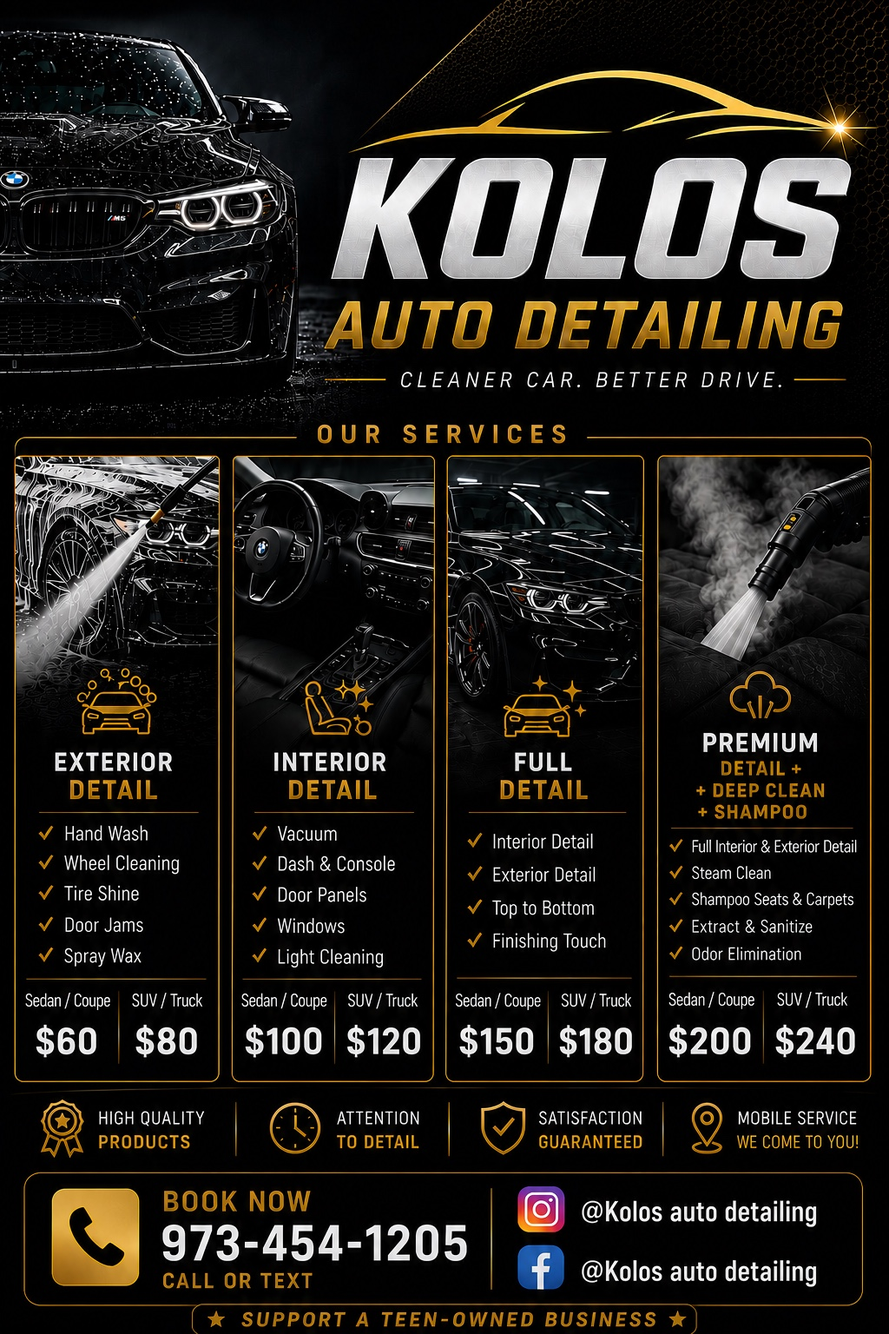
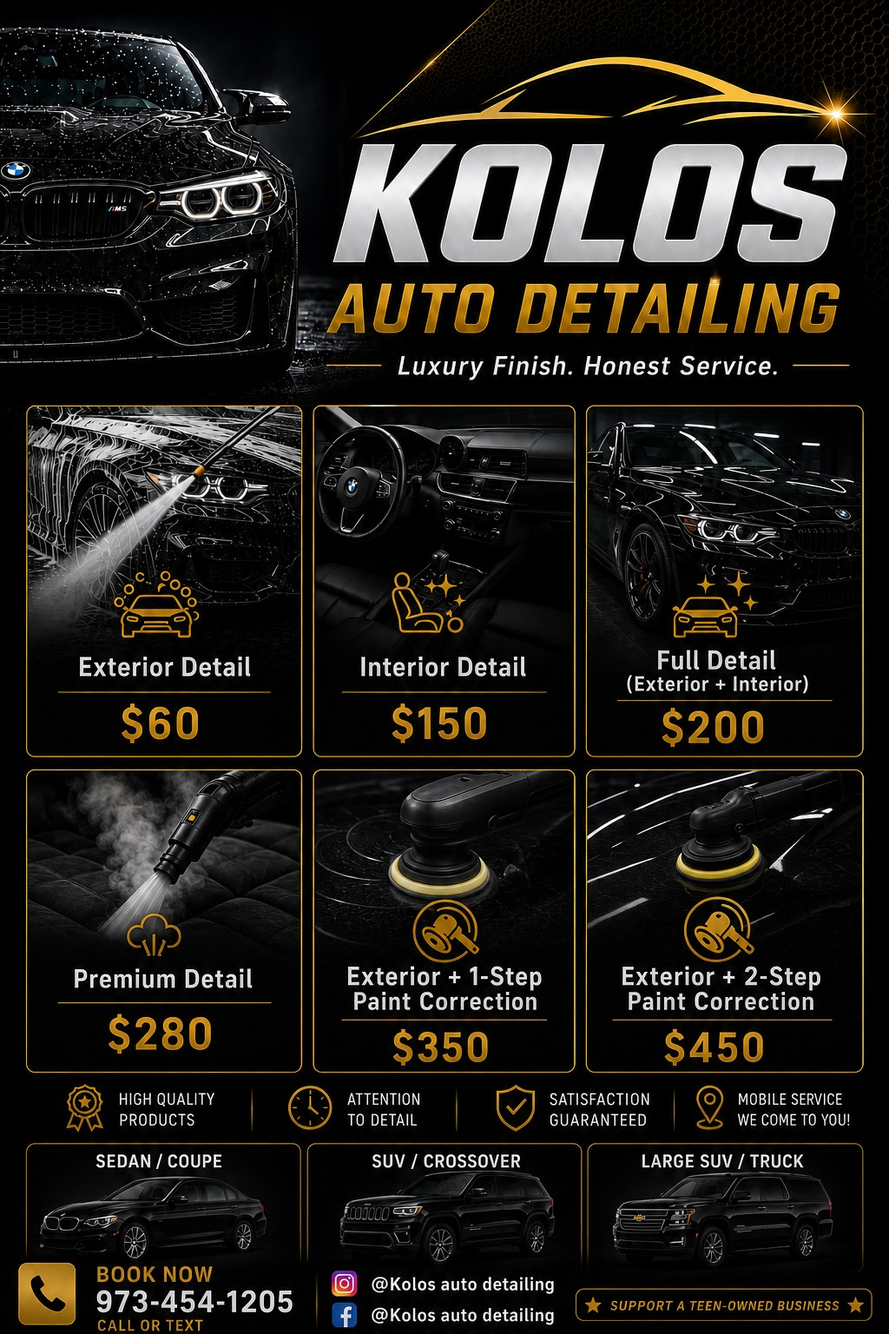
Update website

diff --git a/style.css b/style.css
@@ -1,7 +1,7 @@
 :root{--bg:#080808;--panel:#111;--panel2:#161616;--gold:#d4af37;--gold2:#f0d477;--text:#f4f1e8;--muted:#aaa59a;--line:rgba(212,175,55,.24);--max:1180px}
-*{box-sizing:border-box}html{scroll-behavior:smooth}body{margin:0;background:var(--bg);color:var(--text);font-family:Inter,ui-sans-serif,system-ui,-apple-system,Segoe UI,sans-serif;line-height:1.6}a{color:inherit;text-decoration:none}button,input,select,textarea{font:inherit}.wrap{width:min(var(--max),calc(100% - 40px));margin:auto}.topbar{height:76px;position:fixed;z-index:20;top:0;left:0;right:0;display:flex;align-items:center;justify-content:space-between;padding:0 max(22px,calc((100vw - var(--max))/2));background:rgba(8,8,8,.82);backdrop-filter:blur(14px);border-bottom:1px solid rgba(255,255,255,.06)}.brand{font-weight:900;letter-spacing:.12em}.brand span{font-weight:500;color:var(--gold);font-size:.72em}.topbar nav{display:flex;align-items:center;gap:24px;font-size:.91rem}.topbar nav a{color:#d6d2ca}.nav-cta{border:1px solid var(--gold);padding:9px 17px;color:var(--gold)!important}.hero{min-height:760px;height:92vh;display:grid;place-items:center;position:relative;background:url('assets/gallery-clean.jpg') center/cover no-repeat}.hero-overlay{position:absolute;inset:0;background:linear-gradient(90deg,rgba(0,0,0,.9) 0%,rgba(0,0,0,.62) 52%,rgba(0,0,0,.2)),linear-gradient(0deg,#080808 0%,transparent 35%)}.hero-content{position:relative;width:min(var(--max),calc(100% - 40px));padding-top:60px}.eyebrow{color:var(--gold);font-size:.76rem;font-weight:800;text-transform:uppercase;letter-spacing:.18em}.hero h1,.section h2{font-family:Georgia,serif;line-height:1.03;margin:.25em 0}.hero h1{font-size:clamp(3.4rem,8vw,7.5rem);max-width:900px}.hero h1 em{color:var(--gold2);font-weight:400}.hero-copy{max-width:630px;color:#d4d0c7;font-size:1.08rem}.actions{display:flex;gap:12px;flex-wrap:wrap;margin-top:28px}.btn{display:inline-flex;justify-content:center;align-items:center;min-height:50px;padding:0 22px;border:1px solid transparent;font-weight:800;letter-spacing:.02em;cursor:pointer}.primary{background:var(--gold);color:#090909}.primary:hover{background:var(--gold2)}.ghost{border-color:rgba(255,255,255,.25);background:rgba(0,0,0,.25)}.section{padding:110px 0}.section-head{max-width:720px;margin-bottom:42px}.section h2{font-size:clamp(2.5rem,5vw,4.5rem)}.section-head>p:not(.eyebrow){color:var(--muted)}.package-grid{display:grid;grid-template-columns:repeat(4,1fr);gap:16px}.card{position:relative;background:linear-gradient(145deg,var(--panel2),#0d0d0d);border:1px solid rgba(255,255,255,.08);padding:30px;min-height:360px;display:flex;flex-direction:column}.card:hover{transform:translateY(-4px);border-color:var(--line)}.card,.btn,.text-link{transition:.25s}.card .label{color:var(--gold);text-transform:uppercase;font-size:.77rem;letter-spacing:.14em;font-weight:800}.card h3{font-family:Georgia,serif;font-size:3.2rem;margin:0 0 20px}.card ul{list-style:none;padding:0;margin:0 0 26px;color:#c6c1b7}.card li{padding:9px 0;border-bottom:1px solid rgba(255,255,255,.06)}.card li:before{content:'✓';color:var(--gold);margin-right:9px}.text-link{margin-top:auto;color:var(--gold);font-weight:800}.featured{border-color:var(--gold);box-shadow:0 16px 55px rgba(0,0,0,.35)}.popular{position:absolute;right:18px;top:18px;background:var(--gold);color:#090909;font-size:.66rem;font-weight:900;padding:5px 8px;text-transform:uppercase}.correction{margin-top:22px;border:1px solid var(--line);background:#0d0d0d}.correction summary{cursor:pointer;padding:20px 24px;color:var(--gold);font-weight:800}.correction-grid{display:grid;grid-template-columns:repeat(2,1fr);padding:0 24px 22px;gap:10px}.correction-grid p{display:flex;justify-content:space-between;margin:0;background:#141414;padding:16px}.correction-grid span{color:var(--gold)}.results-section{background:#0d0d0d;border-block:1px solid rgba(255,255,255,.06)}.result-block{display:grid;grid-template-columns:280px 1fr;gap:30px;padding:28px 0 52px;border-top:1px solid var(--line)}.result-copy span{font-family:Georgia,serif;color:var(--gold);font-size:3rem}.result-copy h3{font-size:2rem;margin:0}.result-copy p{color:var(--muted)}.photo-pair{display:grid;grid-template-columns:1fr 1fr;gap:14px}.photo-slot{min-height:330px;border:1px dashed rgba(212,175,55,.44);background:radial-gradient(circle at 50% 40%,#252525,#111);display:flex;flex-direction:column;justify-content:space-between;padding:20px;color:#8d887d}.photo-slot small{color:var(--gold);font-weight:900;letter-spacing:.16em}.split{display:grid;grid-template-columns:.9fr 1.1fr;gap:70px;align-items:start}.contact-stack{display:flex;flex-direction:column;gap:11px;margin-top:30px}.contact-stack a{font-size:1.13rem;color:var(--gold)}.contact-stack span{color:var(--muted)}.form-card{background:#111;border:1px solid var(--line);padding:30px}.form-card h3{font-family:Georgia,serif;font-size:2rem;margin-top:0}label,legend{display:block;color:#d7d1c5;font-size:.84rem;font-weight:700}input,select,textarea{width:100%;margin:7px 0 18px;background:#090909;border:1px solid #34322d;color:#fff;padding:13px 14px;outline:none}input:focus,select:focus,textarea:focus{border-color:var(--gold)}.field-row{display:grid;grid-template-columns:1fr 1fr;gap:14px}.check{display:flex;align-items:flex-start;gap:10px;font-weight:500;margin-bottom:20px}.check input{width:auto;margin:4px 0}.full{width:100%}.form-note{font-size:.76rem;color:#8f8a80;margin:12px 0 0}.hidden{position:absolute;left:-9999px}.reviews-section{background:linear-gradient(180deg,#0a0a0a,#111)}.empty-review{border-left:2px solid var(--gold);padding:5px 0 5px 20px;margin-top:26px}.empty-review p{color:var(--muted)}.rating{border:0;padding:0;margin:0 0 18px}.rating label{display:inline-flex;margin-right:11px;cursor:pointer}.rating input{width:auto;margin:0 5px 0 0}.rating span{color:var(--gold);letter-spacing:1px}.rating i{color:#3a3833;font-style:normal}footer{border-top:1px solid var(--line);padding:34px 0;background:#070707}.footer-inner{display:flex;justify-content:space-between;align-items:center}.footer-inner p{color:var(--muted);margin:.25rem 0}.socials{display:flex;gap:18px}.socials a{color:var(--gold)}.reveal{opacity:0;transform:translateY(18px);transition:.65s ease}.reveal.visible{opacity:1;transform:none}
-@media(max-width:900px){.topbar nav a:not(.nav-cta){display:none}.package-grid{grid-template-columns:repeat(2,1fr)}.split{grid-template-columns:1fr;gap:25px}.result-block{grid-template-columns:1fr}.hero{min-height:680px}.section{padding:82px 0}}
-@media(max-width:580px){.wrap,.hero-content{width:min(100% - 24px,var(--max))}.topbar{height:66px;padding:0 12px}.brand{font-size:.85rem}.hero{height:auto;min-height:720px}.hero h1{font-size:3.25rem}.actions .btn{width:100%}.package-grid,.correction-grid,.photo-pair,.field-row{grid-template-columns:1fr}.card{min-height:320px}.section{padding:70px 0}.section h2{font-size:2.65rem}.photo-slot{min-height:240px}.form-card{padding:20px}.footer-inner{align-items:flex-start;gap:22px;flex-direction:column}.socials{flex-wrap:wrap}}
+*{box-sizing:border-box}html{scroll-behavior:smooth}body{margin:0;background:var(--bg);color:var(--text);font-family:Inter,ui-sans-serif,system-ui,-apple-system,Segoe UI,sans-serif;line-height:1.6}a{color:inherit;text-decoration:none}.wrap{width:min(var(--max),calc(100% - 40px));margin:auto}.topbar{height:76px;position:fixed;z-index:20;top:0;left:0;right:0;display:flex;align-items:center;justify-content:space-between;padding:0 max(22px,calc((100vw - var(--max))/2));background:rgba(8,8,8,.82);backdrop-filter:blur(14px);border-bottom:1px solid rgba(255,255,255,.06)}.brand{font-weight:900;letter-spacing:.12em;text-transform:uppercase}.brand span{font-weight:500;color:var(--gold);font-size:.72em}.topbar nav{display:flex;align-items:center;gap:24px;font-size:.91rem}.topbar nav a{color:#d6d2ca}.nav-cta{border:1px solid var(--gold);padding:9px 17px;color:var(--gold)!important}.hero{min-height:760px;height:92vh;display:grid;place-items:center;position:relative;background:url('assets/gallery-clean.jpg') center/cover no-repeat}.hero-overlay{position:absolute;inset:0;background:linear-gradient(90deg,rgba(0,0,0,.9) 0%,rgba(0,0,0,.62) 52%,rgba(0,0,0,.2)),linear-gradient(0deg,#080808 0%,transparent 35%)}.hero-content{position:relative;width:min(var(--max),calc(100% - 40px));padding-top:60px}.eyebrow{color:var(--gold);font-size:.76rem;font-weight:800;text-transform:uppercase;letter-spacing:.18em}.hero h1,.section h2{font-family:Georgia,serif;line-height:1.03;margin:.25em 0}.hero h1{font-size:clamp(3.4rem,8vw,7.5rem);max-width:900px}.hero h1 em{color:var(--gold2);font-weight:400}.hero-copy{max-width:630px;color:#d4d0c7;font-size:1.08rem}.actions{display:flex;gap:12px;flex-wrap:wrap;margin-top:28px}.btn{display:inline-flex;justify-content:center;align-items:center;min-height:50px;padding:0 22px;border:1px solid transparent;font-weight:800;letter-spacing:.02em;cursor:pointer}.primary{background:var(--gold);color:#090909}.primary:hover{background:var(--gold2)}.ghost{border-color:rgba(255,255,255,.25);background:rgba(0,0,0,.25)}.section{padding:110px 0}.section-head{max-width:720px;margin-bottom:42px}.section h2{font-size:clamp(2.5rem,5vw,4.5rem)}.section-head>p:not(.eyebrow){color:var(--muted)}.package-grid{display:grid;grid-template-columns:repeat(4,1fr);gap:16px}.card{position:relative;background:linear-gradient(145deg,var(--panel2),#0d0d0d);border:1px solid rgba(255,255,255,.08);padding:30px;min-height:360px;display:flex;flex-direction:column}.card:hover{transform:translateY(-4px);border-color:var(--line)}.card,.btn,.text-link{transition:.25s}.card .label{color:var(--gold);text-transform:uppercase;font-size:.77rem;letter-spacing:.14em;font-weight:800}.card h3{font-family:Georgia,serif;font-size:3.2rem;margin:0 0 20px}.card ul{list-style:none;padding:0;margin:0 0 26px;color:#c6c1b7}.card li{padding:9px 0;border-bottom:1px solid rgba(255,255,255,.06)}.card li:before{content:'✓';color:var(--gold);margin-right:9px}.text-link{margin-top:auto;color:var(--gold);font-weight:800}.featured{border-color:var(--gold);box-shadow:0 16px 55px rgba(0,0,0,.35)}.popular{position:absolute;right:18px;top:18px;background:var(--gold);color:#090909;font-size:.66rem;font-weight:900;padding:5px 8px;text-transform:uppercase}.correction{margin-top:22px;border:1px solid var(--line);background:#0d0d0d}.correction summary{cursor:pointer;padding:20px 24px;color:var(--gold);font-weight:800}.correction-grid{display:grid;grid-template-columns:repeat(2,1fr);padding:0 24px 22px;gap:10px}.correction-grid p{display:flex;justify-content:space-between;margin:0;background:#141414;padding:16px}.correction-grid span{color:var(--gold)}.results-section{background:#0d0d0d;border-block:1px solid rgba(255,255,255,.06)}.result-block{display:grid;grid-template-columns:280px 1fr;gap:30px;padding:28px 0 52px;border-top:1px solid var(--line)}.result-copy span{font-family:Georgia,serif;color:var(--gold);font-size:3rem}.result-copy h3{font-size:2rem;margin:0}.result-copy p{color:var(--muted)}.photo-pair{display:grid;grid-template-columns:1fr 1fr;gap:14px}.photo-slot{min-height:330px;border:1px dashed rgba(212,175,55,.44);background:radial-gradient(circle at 50% 40%,#252525,#111);display:flex;flex-direction:column;justify-content:space-between;padding:20px;color:#8d887d}.photo-slot small{color:var(--gold);font-weight:900;letter-spacing:.16em}.contact-stack{display:flex;flex-direction:column;gap:11px;margin-top:30px}.contact-stack a{font-size:1.13rem;color:var(--gold)}.contact-stack span{color:var(--muted)}.full{width:100%}.reviews-section{background:linear-gradient(180deg,#0a0a0a,#111)}.empty-review{border-left:2px solid var(--gold);padding:5px 0 5px 20px;margin-top:26px}.empty-review p{color:var(--muted)}footer{border-top:1px solid var(--line);padding:34px 0;background:#070707}.footer-inner{display:flex;justify-content:space-between;align-items:center;gap:28px}.footer-inner p{color:var(--muted);margin:.25rem 0}.socials{display:flex;align-items:center;gap:14px}.socials a{width:38px;height:38px;display:grid;place-items:center;color:var(--gold);border:1px solid var(--line);transition:.25s}.socials a:hover{color:var(--gold2);border-color:var(--gold);transform:translateY(-2px)}.socials svg{width:21px;height:21px;fill:none;stroke:currentColor;stroke-width:1.8;stroke-linecap:round;stroke-linejoin:round}.socials .social-dot{fill:currentColor;stroke:none}.reveal{opacity:0;transform:translateY(18px);transition:.65s ease}.reveal.visible{opacity:1;transform:none}
+@media(max-width:900px){.topbar nav a:not(.nav-cta){display:none}.package-grid{grid-template-columns:repeat(2,1fr)}.result-block{grid-template-columns:1fr}.hero{min-height:680px}.section{padding:82px 0}}
+@media(max-width:580px){.wrap,.hero-content{width:min(100% - 24px,var(--max))}.topbar{height:66px;padding:0 12px}.brand{font-size:.85rem}.hero{height:auto;min-height:720px}.hero h1{font-size:3.25rem}.actions .btn{width:100%}.package-grid,.correction-grid,.photo-pair{grid-template-columns:1fr}.card{min-height:320px}.section{padding:70px 0}.section h2{font-size:2.65rem}.photo-slot{min-height:240px}.footer-inner{align-items:flex-start;gap:22px;flex-direction:column}.socials{flex-wrap:wrap}}
 .subsection-head{margin:70px 0 24px}.subsection-head h3,.flyer-card h3{font-family:Georgia,serif;font-size:clamp(2rem,4vw,3.4rem);margin:.15em 0}.correction-cards .card h3 small{font-family:Inter,ui-sans-serif,system-ui;font-size:.28em;text-transform:uppercase;letter-spacing:.12em;color:var(--muted)}.flyer-card{margin-top:28px;padding:28px;border:1px solid var(--line);background:linear-gradient(145deg,#141414,#0b0b0b);display:grid;grid-template-columns:1fr minmax(260px,420px);gap:32px;align-items:center}.flyer-card p:not(.eyebrow){color:var(--muted);max-width:560px}.flyer-card a{display:block;border:1px solid rgba(255,255,255,.09);overflow:hidden}.flyer-card img{display:block;width:100%;height:auto}.result-photo{position:relative;min-height:330px;margin:0;overflow:hidden;border:1px solid rgba(212,175,55,.34);background:#111}.result-photo img{width:100%;height:100%;min-height:330px;object-fit:cover;display:block}.result-photo figcaption{position:absolute;left:0;right:0;bottom:0;display:flex;justify-content:space-between;align-items:center;padding:15px 17px;background:linear-gradient(transparent,rgba(0,0,0,.9));padding-top:48px}.result-photo small{color:var(--gold);font-weight:900;letter-spacing:.16em}.result-photo span{font-size:.72rem;color:#d0cbc2}.photo-slot{display:none}
 @media(max-width:900px){.flyer-card{grid-template-columns:1fr}.correction-cards{grid-template-columns:repeat(2,1fr)}}
 @media(max-width:580px){.correction-cards{grid-template-columns:1fr}.flyer-card{padding:18px}.result-photo,.result-photo img{min-height:240px}}

diff --git a/index.html b/index.html
@@ -44,11 +44,12 @@
       "@type": "OfferCatalog",
       "name": "Mobile auto detailing services",
       "itemListElement": [
-        {"@type": "Offer", "itemOffered": {"@type": "Service", "name": "Interior car detailing"}},
-        {"@type": "Offer", "itemOffered": {"@type": "Service", "name": "Exterior car detailing"}},
-        {"@type": "Offer", "itemOffered": {"@type": "Service", "name": "Full car detailing"}},
-        {"@type": "Offer", "itemOffered": {"@type": "Service", "name": "Paint correction"}},
-        {"@type": "Offer", "itemOffered": {"@type": "Service", "name": "Mobile car wash"}}
+        {"@type": "Offer", "price": "60", "priceCurrency": "USD", "itemOffered": {"@type": "Service", "name": "Exterior Detail"}},
+        {"@type": "Offer", "price": "150", "priceCurrency": "USD", "itemOffered": {"@type": "Service", "name": "Interior Detail"}},
+        {"@type": "Offer", "price": "200", "priceCurrency": "USD", "itemOffered": {"@type": "Service", "name": "Full Detail (Exterior + Interior)"}},
+        {"@type": "Offer", "price": "280", "priceCurrency": "USD", "itemOffered": {"@type": "Service", "name": "Premium Detail"}},
+        {"@type": "Offer", "price": "350", "priceCurrency": "USD", "itemOffered": {"@type": "Service", "name": "Exterior + 1-Step Paint Correction"}},
+        {"@type": "Offer", "price": "450", "priceCurrency": "USD", "itemOffered": {"@type": "Service", "name": "Exterior + 2-Step Paint Correction"}}
       ]
     }
   }
@@ -56,7 +57,7 @@
 </head>
 <body>
 <header class="topbar">
-  <a class="brand" href="#top" aria-label="Kolos Auto Detailing home">KOLOS <span>AUTO DETAILING</span></a>
+  <a class="brand" href="#top" aria-label="Kolos Auto Detailing home">Kolos <span>Auto Detailing</span></a>
   <nav aria-label="Primary navigation">
     <a href="#packages">Packages</a>
     <a href="#results">Before & After</a>
@@ -72,7 +73,7 @@
     <div class="hero-content reveal">
       <p class="eyebrow">Mobile service • Wayne, New Jersey</p>
       <h1>A cleaner car.<br><em>A simpler booking.</em></h1>
-      <p class="hero-copy">Premium mobile detailing brought to your driveway. You provide access to water and an electrical outlet — we handle the rest.</p>
+      <p class="hero-copy">Premium mobile detailing brought directly to your driveway. We bring our own water and professional equipment — we only require access to a standard electrical outlet.</p>
       <div class="actions">
         <a class="btn primary" href="#booking">Book an Appointment</a>
         <a class="btn ghost" href="tel:+19734541205">Call 973-454-1205</a>
@@ -90,25 +91,25 @@
 
     <div class="package-grid">
       <article class="card reveal">
-        <p class="label">Exterior</p><h3>$60</h3>
+        <p class="label">Exterior Detail</p><h3>$60</h3>
         <ul><li>Hand wash</li><li>Wheels and tires</li><li>Exterior finish</li></ul>
-        <a href="#booking" class="text-link" data-package="Exterior">Select package →</a>
+        <a href="#booking" class="text-link" data-package="Exterior Detail">Select package →</a>
       </article>
       <article class="card reveal">
-        <p class="label">Interior</p><h3>$150</h3>
+        <p class="label">Interior Detail</p><h3>$150</h3>
         <ul><li>Strong interior cleaning</li><li>Vacuum and wipe-down</li><li>Interior finishing</li></ul>
-        <a href="#booking" class="text-link" data-package="Interior">Select package →</a>
+        <a href="#booking" class="text-link" data-package="Interior Detail">Select package →</a>
       </article>
       <article class="card featured reveal">
         <span class="popular">Most Popular</span>
-        <p class="label">Full Detail</p><h3>$200</h3>
+        <p class="label">Full Detail (Exterior + Interior)</p><h3>$200</h3>
         <ul><li>Exterior detail</li><li>Surface-clean interior</li><li>No shampoo extraction</li></ul>
-        <a href="#booking" class="text-link" data-package="Full Detail">Select package →</a>
+        <a href="#booking" class="text-link" data-package="Full Detail (Exterior + Interior)">Select package →</a>
       </article>
       <article class="card reveal">
-        <p class="label">Premium</p><h3>$280</h3>
+        <p class="label">Premium Detail</p><h3>$280</h3>
         <ul><li>Deep interior and exterior</li><li>Shampoo and steam</li><li>Small stain removal</li></ul>
-        <a href="#booking" class="text-link" data-package="Premium">Select package →</a>
+        <a href="#booking" class="text-link" data-package="Premium Detail">Select package →</a>
       </article>
     </div>
 
@@ -118,25 +119,14 @@
     </div>
     <div class="package-grid correction-cards">
       <article class="card reveal">
-        <p class="label">Exterior + 1-Step</p><h3>$350</h3>
+        <p class="label">Exterior + 1-Step Paint Correction</p><h3>$350</h3>
         <ul><li>Exterior detail</li><li>Single-stage machine polish</li><li>Gloss enhancement</li></ul>
         <a href="#booking" class="text-link" data-package="Exterior + 1-Step Paint Correction">Select package →</a>
       </article>
       <article class="card reveal">
-        <p class="label">Exterior + 2-Step</p><h3>$450</h3>
+        <p class="label">Exterior + 2-Step Paint Correction</p><h3>$450</h3>
         <ul><li>Exterior detail</li><li>Cut and polish process</li><li>Stronger defect reduction</li></ul>
         <a href="#booking" class="text-link" data-package="Exterior + 2-Step Paint Correction">Select package →</a>
-      </article>
-      <article class="card reveal">
-        <p class="label">Ultimate + 1-Step</p><h3><small>From</small> $650</h3>
-        <ul><li>Premium interior and exterior</li><li>Single-stage machine polish</li><li>Complete vehicle refresh</li></ul>
-        <a href="#booking" class="text-link" data-package="Ultimate + 1-Step Paint Correction">Select package →</a>
-      </article>
-      <article class="card featured reveal">
-        <span class="popular">Maximum Care</span>
-        <p class="label">Ultimate + 2-Step</p><h3><small>From</small> $800</h3>
-        <ul><li>Premium interior and exterior</li><li>Two-stage correction</li><li>Highest level package</li></ul>
-        <a href="#booking" class="text-link" data-package="Ultimate + 2-Step Paint Correction">Select package →</a>
       </article>
     </div>
 
@@ -165,15 +155,15 @@
       <div class="result-block reveal">
         <div class="result-copy"><span>01</span><h3>Detailing</h3><p>Sample layout — real customer results coming soon.</p></div>
         <div class="photo-pair">
-          <figure class="result-photo"><img src="assets/gallery-before.jpg" alt="Sample black sedan exterior before detailing" loading="lazy"><figcaption><small>BEFORE</small><span>Sample image</span></figcaption></figure>
-          <figure class="result-photo"><img src="assets/gallery-clean.jpg" alt="Sample polished black sedan exterior after detailing" loading="lazy"><figcaption><small>AFTER</small><span>Sample image</span></figcaption></figure>
+          <figure class="result-photo"><img src="assets/before-after/IMG_2894.PNG" alt="Vehicle seat before interior detailing" loading="lazy"><figcaption><small>BEFORE</small><span>Sample image</span></figcaption></figure>
+          <figure class="result-photo"><img src="assets/before-after/IMG_2891.jpeg" alt="Vehicle seat after interior detailing" loading="lazy"><figcaption><small>AFTER</small><span>Sample image</span></figcaption></figure>
         </div>
       </div>
       <div class="result-block reveal">
         <div class="result-copy"><span>02</span><h3>Paint Correction</h3><p>Sample layout — real polishing results coming soon.</p></div>
         <div class="photo-pair">
-          <figure class="result-photo"><img src="assets/exterior-detail.jpg" alt="Sample black vehicle exterior being hand washed" loading="lazy"><figcaption><small>BEFORE</small><span>Sample image</span></figcaption></figure>
-          <figure class="result-photo"><img src="assets/paint-polishing.jpg" alt="Detailer machine polishing a black vehicle's paint" loading="lazy"><figcaption><small>AFTER</small><span>Sample image</span></figcaption></figure>
+          <figure class="result-photo" aria-label="Paint correction before photo coming soon"><figcaption><small>BEFORE</small><span>Coming soon</span></figcaption></figure>
+          <figure class="result-photo" aria-label="Paint correction after photo coming soon"><figcaption><small>AFTER</small><span>Coming soon</span></figcaption></figure>
         </div>
       </div>
     </div>
@@ -205,7 +195,7 @@
   </section>
 
   <section id="reviews" class="section reviews-section">
-    <div class="wrap split">
+    <div class="wrap">
       <div class="section-head reveal">
         <p class="eyebrow">Customer feedback</p>
         <h2>Reviews</h2>
@@ -213,23 +203,10 @@
           <strong>No published reviews yet.</strong>
           <p>Verified customer reviews will appear here as the business grows.</p>
         </div>
+        <div class="actions">
+          <a class="btn ghost" href="https://g.page/r/CR7OgI-OWL-UEBM/review" target="_blank" rel="noopener noreferrer">See Our Google Reviews</a>
+        </div>
       </div>
-      <form class="form-card reveal" name="review" method="POST" data-netlify="true" netlify-honeypot="bot-field-review">
-        <input type="hidden" name="form-name" value="review">
-        <p class="hidden"><label>Do not fill this out: <input name="bot-field-review"></label></p>
-        <h3>Leave a review</h3>
-        <label>Your name<input name="reviewer-name" required></label>
-        <fieldset class="rating"><legend>Rating</legend>
-          <label><input type="radio" name="rating" value="5" required><span>★★★★★</span></label>
-          <label><input type="radio" name="rating" value="4"><span>★★★★</span><i>★</i></label>
-          <label><input type="radio" name="rating" value="3"><span>★★★</span><i>★★</i></label>
-          <label><input type="radio" name="rating" value="2"><span>★★</span><i>★★★</i></label>
-          <label><input type="radio" name="rating" value="1"><span>★</span><i>★★★★</i></label>
-        </fieldset>
-        <label>Your review<textarea name="review" rows="4" required></textarea></label>
-        <button class="btn primary full" type="submit">Submit Review</button>
-        <p class="form-note">Reviews are checked before being published. This keeps the section genuine and useful.</p>
-      </form>
     </div>
   </section>
 
@@ -282,12 +259,23 @@
 
 <footer>
   <div class="wrap footer-inner">
-    <div><strong>KOLOS AUTO DETAILING</strong><p>Premium mobile detailing in Wayne, NJ.</p></div>
+    <div><strong>Kolos Auto Detailing</strong><p>Luxury Finish. Honest Service.</p></div>
     <nav class="footer-links" aria-label="Footer navigation">
       <a href="#packages">Packages</a>
       <a href="#service-area">Service Area</a>
       <a href="#faq">FAQ</a>
       <a href="#booking">Book</a>
+    </nav>
+    <nav class="socials" aria-label="Social media">
+      <a href="https://www.instagram.com/kolos_auto_detailing/" target="_blank" rel="noopener noreferrer" aria-label="Kolos Auto Detailing on Instagram">
+        <svg viewBox="0 0 24 24" aria-hidden="true"><rect x="3" y="3" width="18" height="18" rx="5"></rect><circle cx="12" cy="12" r="4"></circle><circle class="social-dot" cx="17.4" cy="6.6" r="1"></circle></svg>
+      </a>
+      <a href="https://www.tiktok.com/@kolosautodetailing" target="_blank" rel="noopener noreferrer" aria-label="Kolos Auto Detailing on TikTok">
+        <svg viewBox="0 0 24 24" aria-hidden="true"><path d="M14 4v10.2a4.2 4.2 0 1 1-3.3-4.1"></path><path d="M14 4c.6 2.7 2.3 4.3 5 4.7"></path></svg>
+      </a>
+      <a href="https://www.facebook.com/profile.php?id=61592370473611" target="_blank" rel="noopener noreferrer" aria-label="Kolos Auto Detailing on Facebook">
+        <svg viewBox="0 0 24 24" aria-hidden="true"><path d="M14 21v-8h3l.5-3H14V8.4c0-1 .4-1.7 1.8-1.7H18V4.1c-.7-.1-1.6-.2-2.5-.2-2.5 0-4.2 1.5-4.2 4.3V10H9v3h2.3v8"></path></svg>
+      </a>
     </nav>
   </div>
 </footer>

diff --git a/README.md b/README.md
@@ -8,13 +8,13 @@
 - Direct call, text, and vehicle-photo SMS actions
 - Wayne-area service information and FAQ
 - LocalBusiness structured data, social metadata, `robots.txt`, and `sitemap.xml`
-- Review submission form
+- Existing customer review display
 - Responsive desktop and mobile layout
 
 ## Before publishing
-1. Upload the whole folder to the web host. The review form uses Netlify Forms when deployed on Netlify.
+1. Upload the whole folder to the web host.
 2. Keep `https://calendar.app.google/9u6gRaozdZaFAMJs7` current if the public Google Calendar appointment schedule changes.
-3. Submitted reviews are collected for approval. Publishing approved reviews on the page still requires manually adding them or connecting a CMS/backend.
+3. Publish only genuine customer reviews with permission; do not add placeholder reviews.
 4. Replace the before-and-after placeholders only with real customer work and permission.
 
 Phone: 973-454-1205

diff --git a/SETUP-GUIDE.md b/SETUP-GUIDE.md
@@ -11,6 +11,3 @@ If the appointment schedule changes, update that link in `index.html`.
 Appointments are completed through Google Calendar. The website does not contain a separate booking request form or photo-upload control.
 
 Customers with heavily soiled vehicles are instructed to send clear interior and exterior photos by SMS to `(973) 454-1205`. The **Text Vehicle Photos** button opens the customer's SMS app with that number addressed.
-
-## 3. Review submissions
-The review form uses Netlify Forms. After deploying to Netlify, confirm that the `review` form appears in the site's **Forms** area. Reviews should continue to be checked before publication.
